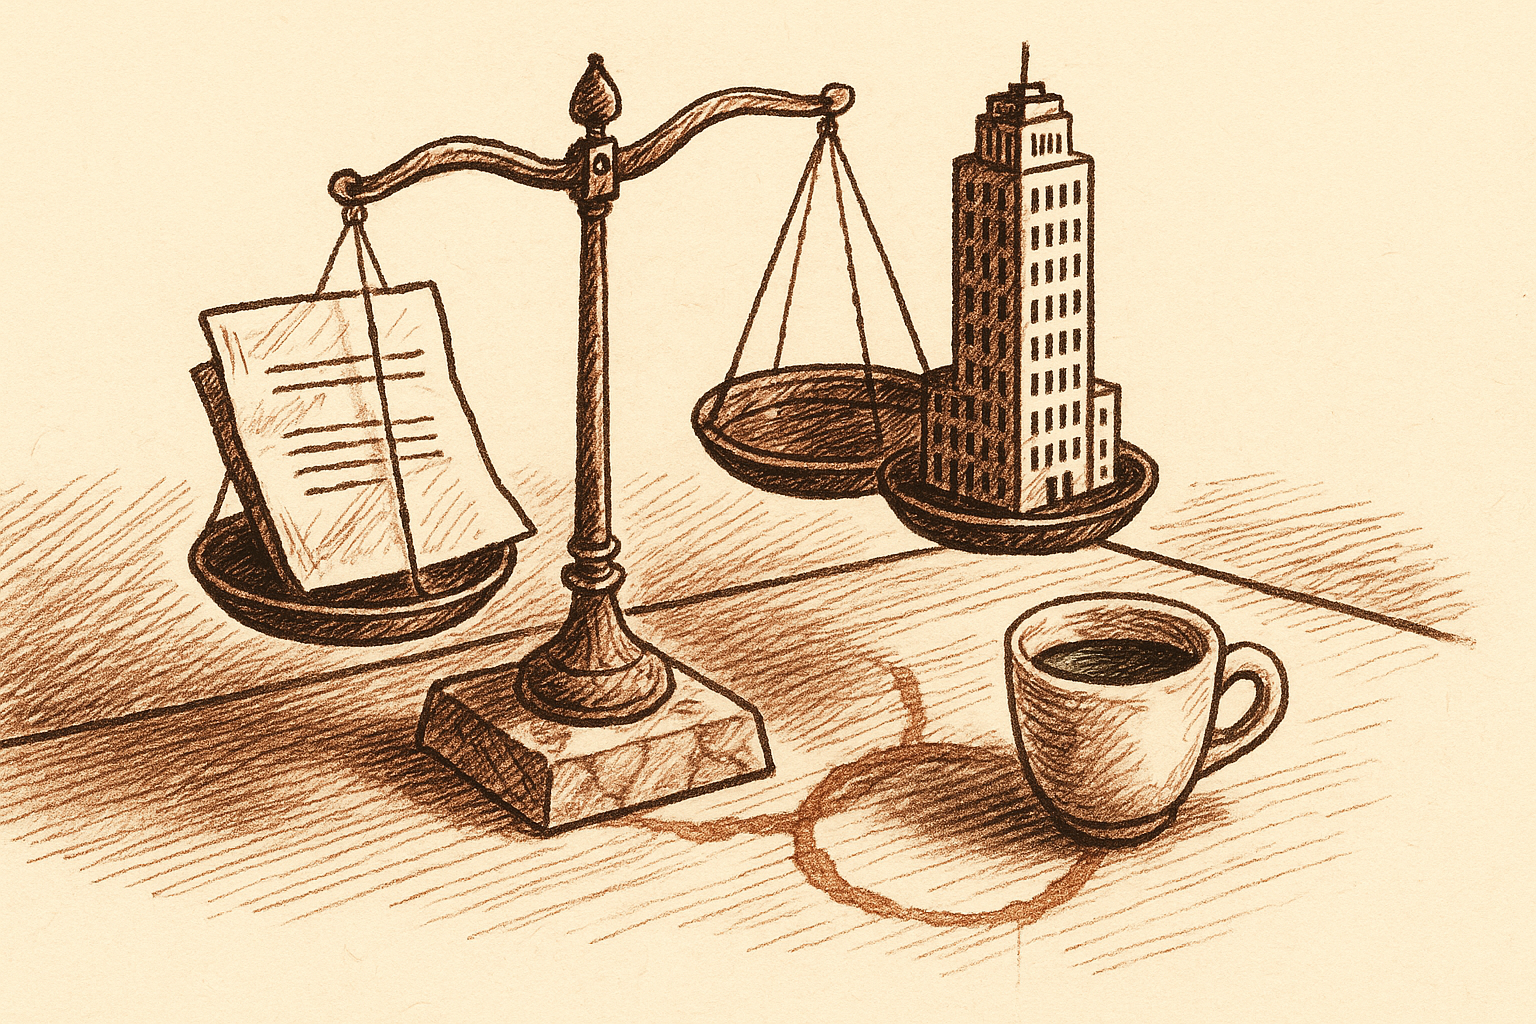
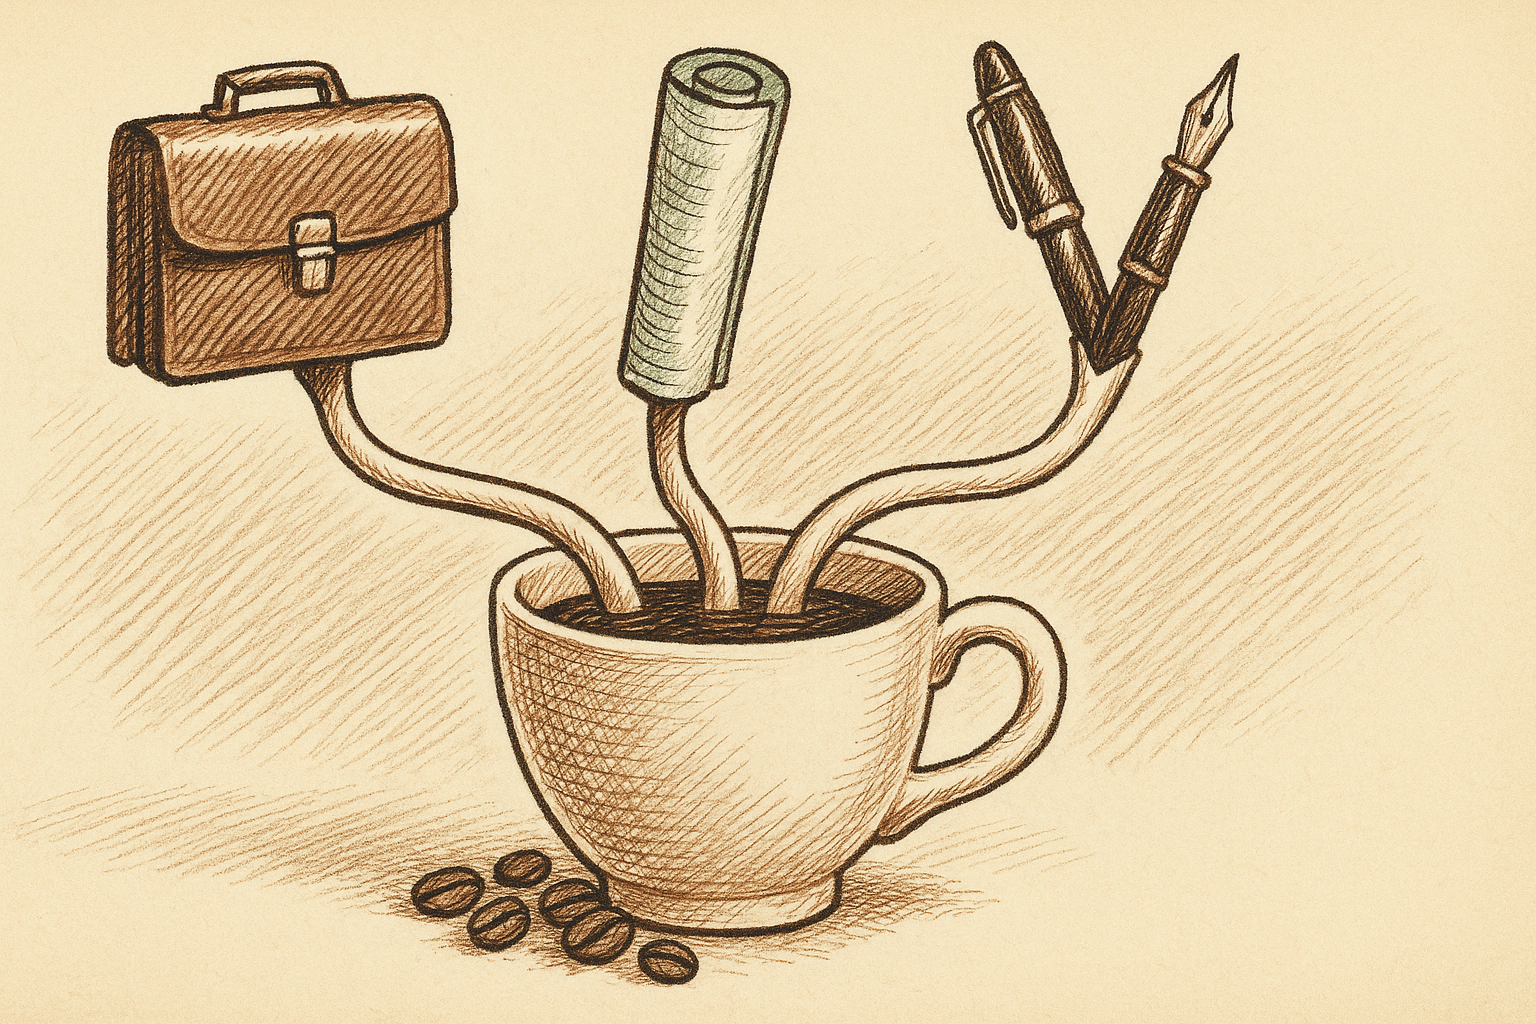
Sync May 16 edition 002 to portal.

diff --git a/editions/edition_2_variant_c.html b/editions/edition_2_variant_c.html
@@ -5,7 +5,7 @@
 <meta name="viewport" content="width=device-width, initial-scale=1">
 <title>AI Espresso · Edition 2 · Variant C</title>
 <!-- preheader (hidden, used by manifest sniffer) -->
-<span style="display:none">Musk vs. Altman jury trial wraps. YouTube now lets anyone flag AI. And arxiv will ban you.</span>
+<span style="display:none">Anthropic is spinning out a new. OpenAI is giving every citizen. And AI is writing mortgage applications now,.</span>
 <!-- sniffer-friendly meta tokens -->
 <meta name="ai-espresso-issue" content="NO.&nbsp;002">
 <meta name="ai-espresso-date" content="SAT&nbsp;&middot;&nbsp;MAY&nbsp;16&nbsp;&middot;&nbsp;2026">
@@ -126,49 +126,48 @@
   <header class="masthead">
     <h1 class="wordmark">ai espresso<span class="cup">&nbsp;☕</span></h1>
     <p class="dateline">Sat &middot; May 16 &middot; 2026</p>
-    <p class="hook">Musk vs. Altman jury trial wraps. YouTube now lets anyone flag AI. And arxiv will ban you.</p>
+    <p class="hook">Anthropic is spinning out a new. OpenAI is giving every citizen. And AI is writing mortgage applications now,.</p>
   </header>
 
   <section class="edition-grid">
     <article class="card">
-      <img class="card-image" src="edition_2/assets/variant_c_01.png" alt="Musk vs. Altman jury trial wraps closing arguments today">
+      <img class="card-image" src="edition_2/assets/variant_c_01.png" alt="Anthropic is spinning out a new enterprise AI services company">
       <div class="card-body">
-        <p class="category tools">Tools</p>
-        <h2 class="headline">Musk vs. Altman jury trial wraps closing arguments today</h2>
-        <p class="kicker">A jury verdict could reshape how AI labs structure themselves and what &#x27;open&#x27; actually means in OpenAI&#x27;s name.</p>
-        <p class="source"><a href="https://www.nytimes.com/2026/05/14/technology/openai-trial-elon-musk-sam-altman.html">NYT — Technology</a> · May 16</p>
+        <p class="category enterprise">Enterprise</p>
+        <h2 class="headline">Anthropic is spinning out a new enterprise AI services company</h2>
+        <p class="kicker">Major AI labs are splitting infrastructure from implementation—expect more white-glove AI consulting as demand scales.</p>
+        <p class="source"><a href="https://www.anthropic.com/news/enterprise-ai-services-company">Anthropic News</a> · May 16</p>
       </div>
     </article>
     <article class="card">
-      <img class="card-image" src="edition_2/assets/variant_c_02.png" alt="YouTube now lets anyone flag AI deepfakes of themselves">
+      <img class="card-image" src="edition_2/assets/variant_c_02.png" alt="OpenAI is giving every citizen of Malta free ChatGPT Plus for a year">
       <div class="card-body">
         <p class="category tools">Tools</p>
-        <h2 class="headline">YouTube now lets anyone flag AI deepfakes of themselves</h2>
-        <p class="kicker">Deepfake tools are everywhere now, so platform-level takedown rights matter for regular people, not just celebrities.</p>
-        <p class="source"><a href="https://www.engadget.com/2174282/youtube-likeness-detection-ai-deepfakes-expansion/">Engadget — AI</a> · May 16</p>
+        <h2 class="headline">OpenAI is giving every citizen of Malta free ChatGPT Plus for a year</h2>
+        <p class="kicker">First time a country is giving an AI subscription to its entire population as infrastructure.</p>
+        <p class="source"><a href="https://www.engadget.com/2174473/openai-is-offering-chatgpt-plus-to-citizens-of-malta-for-a-year/">Engadget — AI</a> · May 16</p>
       </div>
     </article>
     <article class="card">
-      <img class="card-image" src="edition_2/assets/variant_c_03.png" alt="arXiv will ban you for a year if you submit AI-generated nonsense">
+      <img class="card-image" src="edition_2/assets/variant_c_03.png" alt="AI is writing mortgage applications now, and brokers are worried">
       <div class="card-body">
         <p class="category tools">Tools</p>
-        <h2 class="headline">arXiv will ban you for a year if you submit AI-generated nonsense</h2>
-        <p class="kicker">Academic publishing&#x27;s spam problem just got real consequences—expect stricter guardrails everywhere researchers share work.</p>
-        <p class="source"><a href="https://arstechnica.com/science/2026/05/preprint-server-arxiv-will-ban-submitters-of-ai-generated-hallucinations/">Ars Technica — AI</a> · May 16</p>
+        <h2 class="headline">AI is writing mortgage applications now, and brokers are worried</h2>
+        <p class="kicker">Another white-collar job where AI handles the tedious parts, leaving humans to close deals or get displaced.</p>
+        <p class="source"><a href="https://www.ft.com/content/cbe7355d-3992-44d6-9c05-d98490ff26da">FT — Technology</a> · May 16</p>
       </div>
     </article>
     <article class="card prompt-card">
       <img class="card-image" src="edition_2/assets/variant_c_04.png" alt="Try this prompt">
       <div class="card-body">
         <p class="prompt-tag">☕ Try this prompt</p>
-        <div class="prompt-code">Help me draft a one-page **how our team uses AI** charter for [project or client name]. Context: [2 sentences on what we&#x27;re building and who sees our work].
+        <div class="prompt-code">I&#x27;m about to send a work email that explains [topic]. Before I hit send, rewrite it in three versions:
 
-Output exactly:
-1. **Three encouraged uses** — specific ways we&#x27;ll lean on AI assistants this sprint (drafting, research, prototyping — be concrete).
-2. **One quality bar** — what we always human-check before it goes external (one sentence, confident not fearful).
-3. **This week&#x27;s experiment** — one 30-minute try I&#x27;d demo to the team on Friday, with the first message I&#x27;d paste into Claude or ChatGPT to start it.
+1. **Too formal** — sounds like a legal notice
+2. **Too casual** — sounds like a text to a friend
+3. **Just right** — clear, respectful, and gets straight to the point
 
-Tone: curious, capable, forward-moving — like we&#x27;re choosing how to work, not hiding from tools.</div>
+Then tell me which one you&#x27;d send and why.</div>
         <p class="prompt-tip">Works in Claude, ChatGPT, or Gemini.</p>
       </div>
     </article>

diff --git a/editions/latest.html b/editions/latest.html
@@ -5,7 +5,7 @@
 <meta name="viewport" content="width=device-width, initial-scale=1">
 <title>AI Espresso · Edition 2 · Variant C</title>
 <!-- preheader (hidden, used by manifest sniffer) -->
-<span style="display:none">Musk vs. Altman jury trial wraps. YouTube now lets anyone flag AI. And arxiv will ban you.</span>
+<span style="display:none">Anthropic is spinning out a new. OpenAI is giving every citizen. And AI is writing mortgage applications now,.</span>
 <!-- sniffer-friendly meta tokens -->
 <meta name="ai-espresso-issue" content="NO.&nbsp;002">
 <meta name="ai-espresso-date" content="SAT&nbsp;&middot;&nbsp;MAY&nbsp;16&nbsp;&middot;&nbsp;2026">
@@ -126,49 +126,48 @@
   <header class="masthead">
     <h1 class="wordmark">ai espresso<span class="cup">&nbsp;☕</span></h1>
     <p class="dateline">Sat &middot; May 16 &middot; 2026</p>
-    <p class="hook">Musk vs. Altman jury trial wraps. YouTube now lets anyone flag AI. And arxiv will ban you.</p>
+    <p class="hook">Anthropic is spinning out a new. OpenAI is giving every citizen. And AI is writing mortgage applications now,.</p>
   </header>
 
   <section class="edition-grid">
     <article class="card">
-      <img class="card-image" src="edition_2/assets/variant_c_01.png" alt="Musk vs. Altman jury trial wraps closing arguments today">
+      <img class="card-image" src="edition_2/assets/variant_c_01.png" alt="Anthropic is spinning out a new enterprise AI services company">
       <div class="card-body">
-        <p class="category tools">Tools</p>
-        <h2 class="headline">Musk vs. Altman jury trial wraps closing arguments today</h2>
-        <p class="kicker">A jury verdict could reshape how AI labs structure themselves and what &#x27;open&#x27; actually means in OpenAI&#x27;s name.</p>
-        <p class="source"><a href="https://www.nytimes.com/2026/05/14/technology/openai-trial-elon-musk-sam-altman.html">NYT — Technology</a> · May 16</p>
+        <p class="category enterprise">Enterprise</p>
+        <h2 class="headline">Anthropic is spinning out a new enterprise AI services company</h2>
+        <p class="kicker">Major AI labs are splitting infrastructure from implementation—expect more white-glove AI consulting as demand scales.</p>
+        <p class="source"><a href="https://www.anthropic.com/news/enterprise-ai-services-company">Anthropic News</a> · May 16</p>
       </div>
     </article>
     <article class="card">
-      <img class="card-image" src="edition_2/assets/variant_c_02.png" alt="YouTube now lets anyone flag AI deepfakes of themselves">
+      <img class="card-image" src="edition_2/assets/variant_c_02.png" alt="OpenAI is giving every citizen of Malta free ChatGPT Plus for a year">
       <div class="card-body">
         <p class="category tools">Tools</p>
-        <h2 class="headline">YouTube now lets anyone flag AI deepfakes of themselves</h2>
-        <p class="kicker">Deepfake tools are everywhere now, so platform-level takedown rights matter for regular people, not just celebrities.</p>
-        <p class="source"><a href="https://www.engadget.com/2174282/youtube-likeness-detection-ai-deepfakes-expansion/">Engadget — AI</a> · May 16</p>
+        <h2 class="headline">OpenAI is giving every citizen of Malta free ChatGPT Plus for a year</h2>
+        <p class="kicker">First time a country is giving an AI subscription to its entire population as infrastructure.</p>
+        <p class="source"><a href="https://www.engadget.com/2174473/openai-is-offering-chatgpt-plus-to-citizens-of-malta-for-a-year/">Engadget — AI</a> · May 16</p>
       </div>
     </article>
     <article class="card">
-      <img class="card-image" src="edition_2/assets/variant_c_03.png" alt="arXiv will ban you for a year if you submit AI-generated nonsense">
+      <img class="card-image" src="edition_2/assets/variant_c_03.png" alt="AI is writing mortgage applications now, and brokers are worried">
       <div class="card-body">
         <p class="category tools">Tools</p>
-        <h2 class="headline">arXiv will ban you for a year if you submit AI-generated nonsense</h2>
-        <p class="kicker">Academic publishing&#x27;s spam problem just got real consequences—expect stricter guardrails everywhere researchers share work.</p>
-        <p class="source"><a href="https://arstechnica.com/science/2026/05/preprint-server-arxiv-will-ban-submitters-of-ai-generated-hallucinations/">Ars Technica — AI</a> · May 16</p>
+        <h2 class="headline">AI is writing mortgage applications now, and brokers are worried</h2>
+        <p class="kicker">Another white-collar job where AI handles the tedious parts, leaving humans to close deals or get displaced.</p>
+        <p class="source"><a href="https://www.ft.com/content/cbe7355d-3992-44d6-9c05-d98490ff26da">FT — Technology</a> · May 16</p>
       </div>
     </article>
     <article class="card prompt-card">
       <img class="card-image" src="edition_2/assets/variant_c_04.png" alt="Try this prompt">
       <div class="card-body">
         <p class="prompt-tag">☕ Try this prompt</p>
-        <div class="prompt-code">Help me draft a one-page **how our team uses AI** charter for [project or client name]. Context: [2 sentences on what we&#x27;re building and who sees our work].
+        <div class="prompt-code">I&#x27;m about to send a work email that explains [topic]. Before I hit send, rewrite it in three versions:
 
-Output exactly:
-1. **Three encouraged uses** — specific ways we&#x27;ll lean on AI assistants this sprint (drafting, research, prototyping — be concrete).
-2. **One quality bar** — what we always human-check before it goes external (one sentence, confident not fearful).
-3. **This week&#x27;s experiment** — one 30-minute try I&#x27;d demo to the team on Friday, with the first message I&#x27;d paste into Claude or ChatGPT to start it.
+1. **Too formal** — sounds like a legal notice
+2. **Too casual** — sounds like a text to a friend
+3. **Just right** — clear, respectful, and gets straight to the point
 
-Tone: curious, capable, forward-moving — like we&#x27;re choosing how to work, not hiding from tools.</div>
+Then tell me which one you&#x27;d send and why.</div>
         <p class="prompt-tip">Works in Claude, ChatGPT, or Gemini.</p>
       </div>
     </article>

diff --git a/editions/edition_2_variant_c.md b/editions/edition_2_variant_c.md
@@ -2,49 +2,49 @@
 
 **SAT · MAY 16 · 2026**
 
-*Musk vs. Altman jury trial wraps. YouTube now lets anyone flag AI. And arxiv will ban you.*
+*Anthropic is spinning out a new. OpenAI is giving every citizen. And AI is writing mortgage applications now,.*
 
 ---
 
-![Musk vs. Altman jury trial wraps closing arguments today](edition_2/assets/variant_c_01.png)
+![Anthropic is spinning out a new enterprise AI services company](edition_2/assets/variant_c_01.png)
 
-**TOOLS**
+**ENTERPRISE**
 
-## Musk vs. Altman jury trial wraps closing arguments today
+## Anthropic is spinning out a new enterprise AI services company
 
-The lawsuit alleging OpenAI broke its nonprofit mission by partnering with Microsoft is now in the jury's hands. Musk's legal team argues Altman abandoned the original charter; OpenAI says the shift was necessary to compete and that Musk wanted control when he left in 2018.
+Anthropic is creating a separate company with Blackstone, Hellman & Friedman, and Goldman Sachs to build custom AI solutions for enterprises. The new firm will deploy Claude across industries while Anthropic focuses on research and core product development.
 
-*A jury verdict could reshape how AI labs structure themselves and what 'open' actually means in OpenAI's name.*
+*Major AI labs are splitting infrastructure from implementation—expect more white-glove AI consulting as demand scales.*
 
-[NYT — Technology](https://www.nytimes.com/2026/05/14/technology/openai-trial-elon-musk-sam-altman.html) · May 16
-
----
-
-![YouTube now lets anyone flag AI deepfakes of themselves](edition_2/assets/variant_c_02.png)
-
-**TOOLS**
-
-## YouTube now lets anyone flag AI deepfakes of themselves
-
-YouTube expanded its deepfake detection tool to all creators 18+. You can now request removal of AI-generated videos that simulate your face or voice—whether you're a big creator or not. YouTube reviews each request and may remove the content or restrict it depending on context like parody or public interest.
-
-*Deepfake tools are everywhere now, so platform-level takedown rights matter for regular people, not just celebrities.*
-
-[Engadget — AI](https://www.engadget.com/2174282/youtube-likeness-detection-ai-deepfakes-expansion/) · May 16
+[Anthropic News](https://www.anthropic.com/news/enterprise-ai-services-company) · May 16
 
 ---
 
-![arXiv will ban you for a year if you submit AI-generated nonsense](edition_2/assets/variant_c_03.png)
+![OpenAI is giving every citizen of Malta free ChatGPT Plus for a year](edition_2/assets/variant_c_02.png)
 
 **TOOLS**
 
-## arXiv will ban you for a year if you submit AI-generated nonsense
+## OpenAI is giving every citizen of Malta free ChatGPT Plus for a year
 
-The preprint server announced it will impose 12-month submission bans on accounts that upload AI-generated papers containing hallucinated citations, fabricated data, or other machine-generated slop. The policy targets the flood of low-quality LLM output clogging scientific infrastructure.
+Malta's government partnered with OpenAI to give all 500,000+ citizens free ChatGPT Plus access through 2026. It's part of a pilot to test AI adoption at a national scale — residents can sign up with their government digital ID starting this month.
 
-*Academic publishing's spam problem just got real consequences—expect stricter guardrails everywhere researchers share work.*
+*First time a country is giving an AI subscription to its entire population as infrastructure.*
 
-[Ars Technica — AI](https://arstechnica.com/science/2026/05/preprint-server-arxiv-will-ban-submitters-of-ai-generated-hallucinations/) · May 16
+[Engadget — AI](https://www.engadget.com/2174473/openai-is-offering-chatgpt-plus-to-citizens-of-malta-for-a-year/) · May 16
+
+---
+
+![AI is writing mortgage applications now, and brokers are worried](edition_2/assets/variant_c_03.png)
+
+**TOOLS**
+
+## AI is writing mortgage applications now, and brokers are worried
+
+Financial advisors in the UK are deploying AI systems that pull client data from bank APIs, match borrowers to lenders, and draft entire mortgage applications—tasks that used to take hours of manual work. The tools can scan hundreds of mortgage products in seconds and pre-fill forms with transaction history, income verification, and spending patterns.
+
+*Another white-collar job where AI handles the tedious parts, leaving humans to close deals or get displaced.*
+
+[FT — Technology](https://www.ft.com/content/cbe7355d-3992-44d6-9c05-d98490ff26da) · May 16
 
 ---
 
@@ -56,14 +56,13 @@ The preprint server announced it will impose 12-month submission bans on account
 **☕ Try this prompt**
 
 ```
-Help me draft a one-page **how our team uses AI** charter for [project or client name]. Context: [2 sentences on what we're building and who sees our work].
+I'm about to send a work email that explains [topic]. Before I hit send, rewrite it in three versions:
 
-Output exactly:
-1. **Three encouraged uses** — specific ways we'll lean on AI assistants this sprint (drafting, research, prototyping — be concrete).
-2. **One quality bar** — what we always human-check before it goes external (one sentence, confident not fearful).
-3. **This week's experiment** — one 30-minute try I'd demo to the team on Friday, with the first message I'd paste into Claude or ChatGPT to start it.
+1. **Too formal** — sounds like a legal notice
+2. **Too casual** — sounds like a text to a friend
+3. **Just right** — clear, respectful, and gets straight to the point
 
-Tone: curious, capable, forward-moving — like we're choosing how to work, not hiding from tools.
+Then tell me which one you'd send and why.
 ```
 
 Works in Claude, ChatGPT, or Gemini.

diff --git a/editions/latest.md b/editions/latest.md
@@ -2,49 +2,49 @@
 
 **SAT · MAY 16 · 2026**
 
-*Musk vs. Altman jury trial wraps. YouTube now lets anyone flag AI. And arxiv will ban you.*
+*Anthropic is spinning out a new. OpenAI is giving every citizen. And AI is writing mortgage applications now,.*
 
 ---
 
-![Musk vs. Altman jury trial wraps closing arguments today](edition_2/assets/variant_c_01.png)
+![Anthropic is spinning out a new enterprise AI services company](edition_2/assets/variant_c_01.png)
 
-**TOOLS**
+**ENTERPRISE**
 
-## Musk vs. Altman jury trial wraps closing arguments today
+## Anthropic is spinning out a new enterprise AI services company
 
-The lawsuit alleging OpenAI broke its nonprofit mission by partnering with Microsoft is now in the jury's hands. Musk's legal team argues Altman abandoned the original charter; OpenAI says the shift was necessary to compete and that Musk wanted control when he left in 2018.
+Anthropic is creating a separate company with Blackstone, Hellman & Friedman, and Goldman Sachs to build custom AI solutions for enterprises. The new firm will deploy Claude across industries while Anthropic focuses on research and core product development.
 
-*A jury verdict could reshape how AI labs structure themselves and what 'open' actually means in OpenAI's name.*
+*Major AI labs are splitting infrastructure from implementation—expect more white-glove AI consulting as demand scales.*
 
-[NYT — Technology](https://www.nytimes.com/2026/05/14/technology/openai-trial-elon-musk-sam-altman.html) · May 16
-
----
-
-![YouTube now lets anyone flag AI deepfakes of themselves](edition_2/assets/variant_c_02.png)
-
-**TOOLS**
-
-## YouTube now lets anyone flag AI deepfakes of themselves
-
-YouTube expanded its deepfake detection tool to all creators 18+. You can now request removal of AI-generated videos that simulate your face or voice—whether you're a big creator or not. YouTube reviews each request and may remove the content or restrict it depending on context like parody or public interest.
-
-*Deepfake tools are everywhere now, so platform-level takedown rights matter for regular people, not just celebrities.*
-
-[Engadget — AI](https://www.engadget.com/2174282/youtube-likeness-detection-ai-deepfakes-expansion/) · May 16
+[Anthropic News](https://www.anthropic.com/news/enterprise-ai-services-company) · May 16
 
 ---
 
-![arXiv will ban you for a year if you submit AI-generated nonsense](edition_2/assets/variant_c_03.png)
+![OpenAI is giving every citizen of Malta free ChatGPT Plus for a year](edition_2/assets/variant_c_02.png)
 
 **TOOLS**
 
-## arXiv will ban you for a year if you submit AI-generated nonsense
+## OpenAI is giving every citizen of Malta free ChatGPT Plus for a year
 
-The preprint server announced it will impose 12-month submission bans on accounts that upload AI-generated papers containing hallucinated citations, fabricated data, or other machine-generated slop. The policy targets the flood of low-quality LLM output clogging scientific infrastructure.
+Malta's government partnered with OpenAI to give all 500,000+ citizens free ChatGPT Plus access through 2026. It's part of a pilot to test AI adoption at a national scale — residents can sign up with their government digital ID starting this month.
 
-*Academic publishing's spam problem just got real consequences—expect stricter guardrails everywhere researchers share work.*
+*First time a country is giving an AI subscription to its entire population as infrastructure.*
 
-[Ars Technica — AI](https://arstechnica.com/science/2026/05/preprint-server-arxiv-will-ban-submitters-of-ai-generated-hallucinations/) · May 16
+[Engadget — AI](https://www.engadget.com/2174473/openai-is-offering-chatgpt-plus-to-citizens-of-malta-for-a-year/) · May 16
+
+---
+
+![AI is writing mortgage applications now, and brokers are worried](edition_2/assets/variant_c_03.png)
+
+**TOOLS**
+
+## AI is writing mortgage applications now, and brokers are worried
+
+Financial advisors in the UK are deploying AI systems that pull client data from bank APIs, match borrowers to lenders, and draft entire mortgage applications—tasks that used to take hours of manual work. The tools can scan hundreds of mortgage products in seconds and pre-fill forms with transaction history, income verification, and spending patterns.
+
+*Another white-collar job where AI handles the tedious parts, leaving humans to close deals or get displaced.*
+
+[FT — Technology](https://www.ft.com/content/cbe7355d-3992-44d6-9c05-d98490ff26da) · May 16
 
 ---
 
@@ -56,14 +56,13 @@ The preprint server announced it will impose 12-month submission bans on account
 **☕ Try this prompt**
 
 ```
-Help me draft a one-page **how our team uses AI** charter for [project or client name]. Context: [2 sentences on what we're building and who sees our work].
+I'm about to send a work email that explains [topic]. Before I hit send, rewrite it in three versions:
 
-Output exactly:
-1. **Three encouraged uses** — specific ways we'll lean on AI assistants this sprint (drafting, research, prototyping — be concrete).
-2. **One quality bar** — what we always human-check before it goes external (one sentence, confident not fearful).
-3. **This week's experiment** — one 30-minute try I'd demo to the team on Friday, with the first message I'd paste into Claude or ChatGPT to start it.
+1. **Too formal** — sounds like a legal notice
+2. **Too casual** — sounds like a text to a friend
+3. **Just right** — clear, respectful, and gets straight to the point
 
-Tone: curious, capable, forward-moving — like we're choosing how to work, not hiding from tools.
+Then tell me which one you'd send and why.
 ```
 
 Works in Claude, ChatGPT, or Gemini.